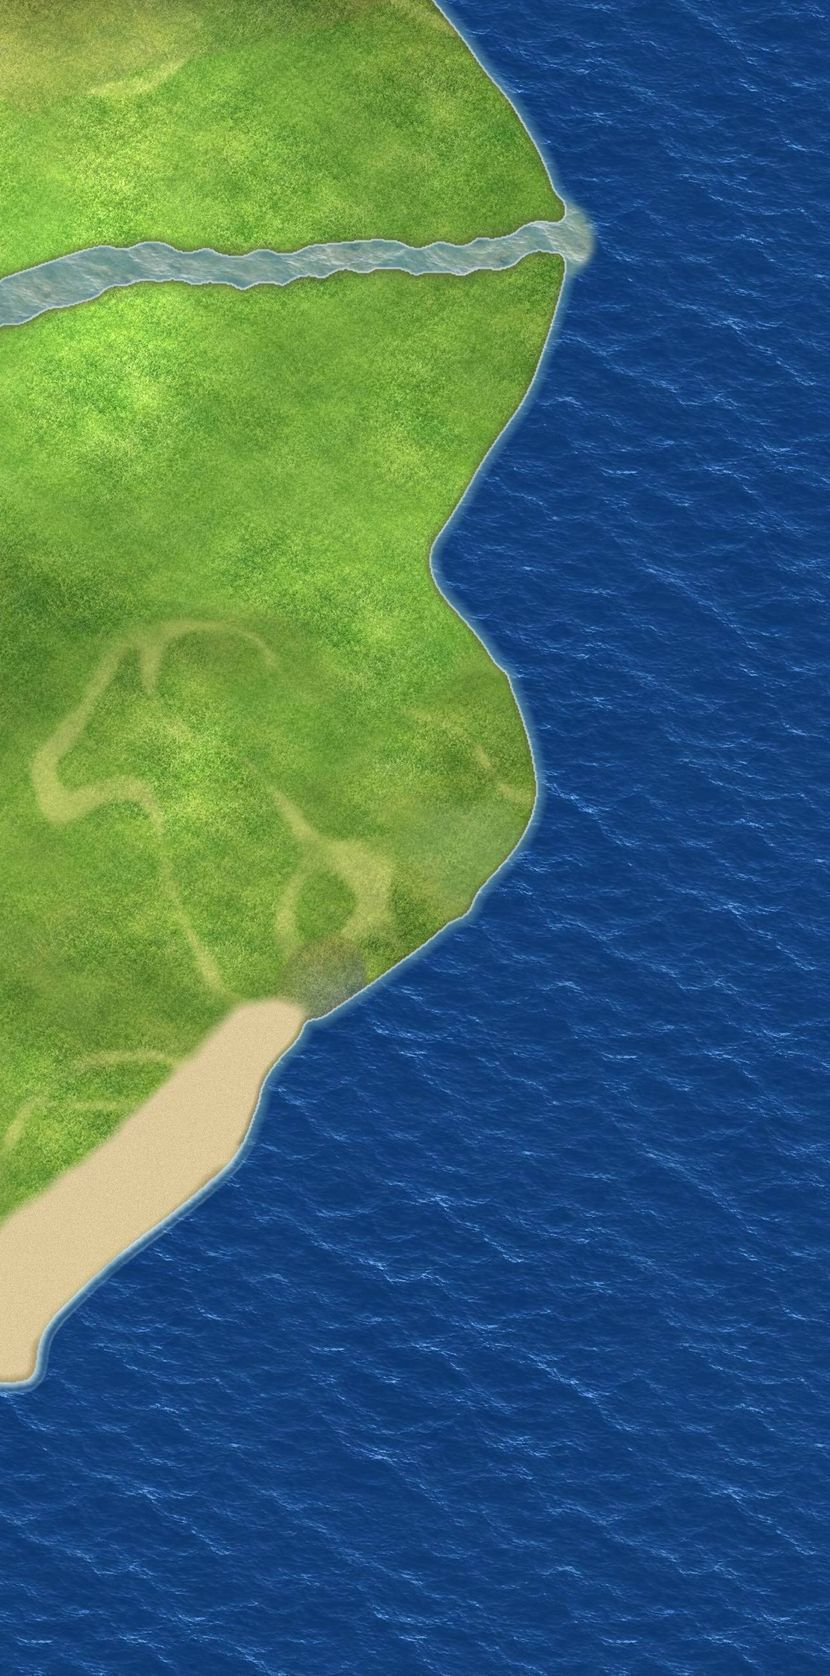
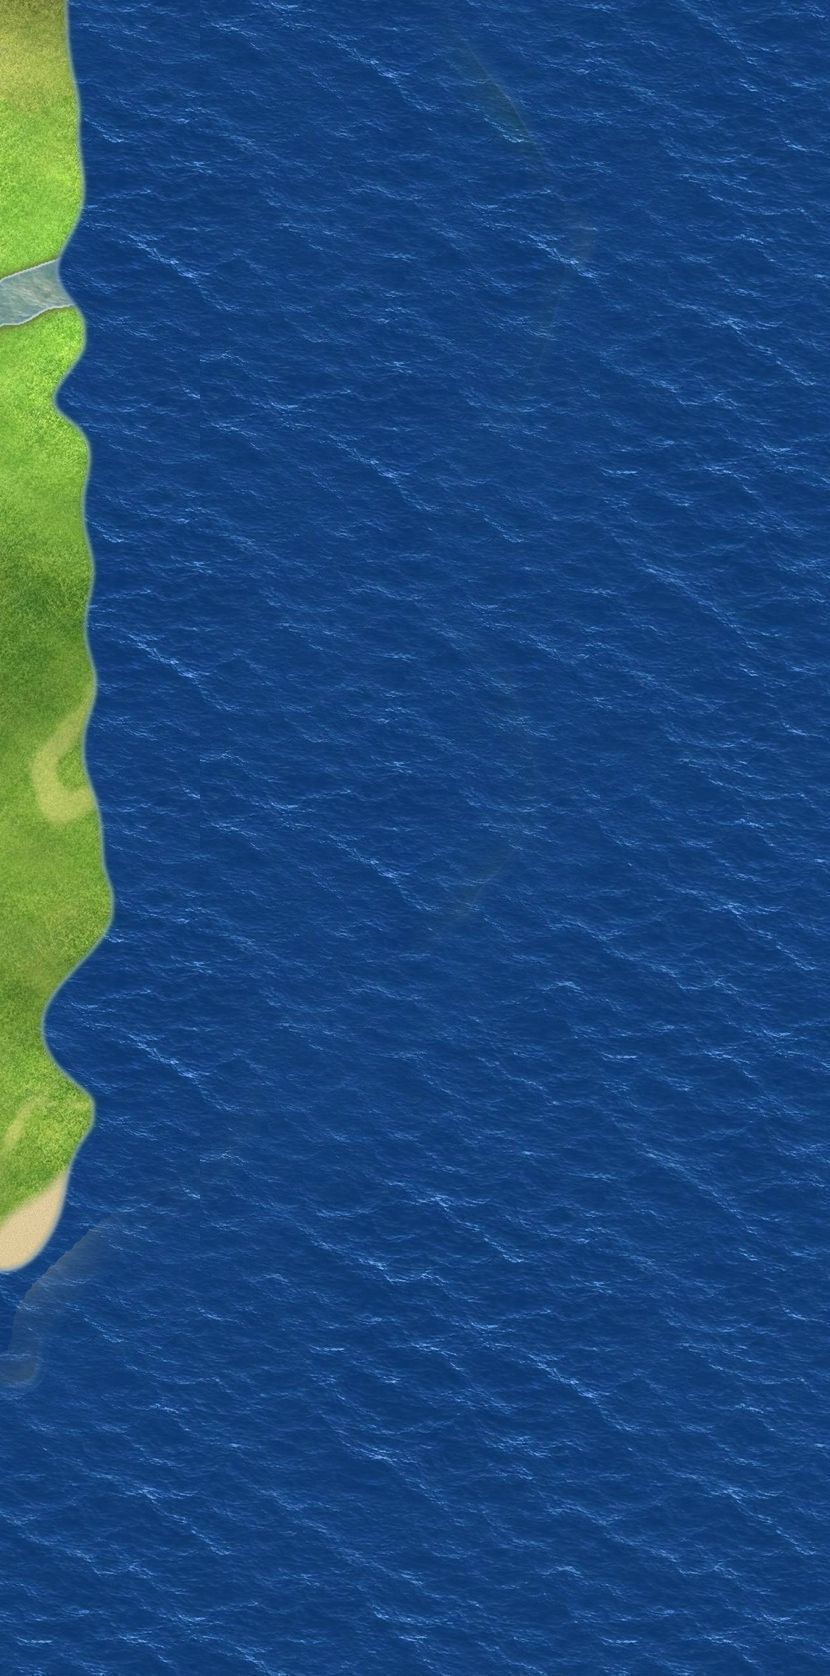
地图：东边涂抹区域变成海（被海围住的小块陆地一并变海，岸线自然起伏，新旧海水渐变无接缝）；新增 tools/make_sea.py
Claude-Session: https://claude.ai/code/session_011WrGna6yNwTfpmyp4CxMHs

diff --git a/tools/make_sea.py b/tools/make_sea.py
@@ -1,0 +1,54 @@
+"""把开发者面板涂抹的区域变成海：海水纹理（取地图里的深海）、碰撞改为阻挡、移走物件。
+用法：python3 tools/make_sea.py art_src/map/sea_xxx.json [宽度=40]"""
+import json,sys,os,numpy as np,cv2
+from PIL import Image
+Image.MAX_IMAGE_PIXELS=None
+R=os.path.dirname(os.path.dirname(os.path.abspath(__file__)));M=R+'/assets/map/'
+L=json.load(open(sys.argv[1]));WID=float(sys.argv[2]) if len(sys.argv)>2 else 40
+J=json.load(open(R+'/data/world.json'));HD=J['HD'];T=J['tiles']['T'];W,H=J['WW'],J['WH']
+full=np.zeros((H*HD,W*HD,3),np.uint8)
+for t in J['tiles']['list']:
+    tx,ty=int(t[1]),int(t[2]);im=np.array(Image.open(M+t+'.jpg').convert('RGB'));full[ty*T*HD:ty*T*HD+im.shape[0],tx*T*HD:tx*T*HD+im.shape[1]]=im
+mask=np.zeros(full.shape[:2],np.uint8)
+for s in L:
+    pts=np.array([[x*HD,y*HD] for x,y in s['点']],np.int32)
+    if len(pts)==1:cv2.circle(mask,tuple(pts[0]),int(WID*HD/2),255,-1)
+    else:
+        cv2.polylines(mask,[pts],False,255,int(WID*HD))
+        if np.hypot(*(pts[0]-pts[-1]))<40*HD:cv2.fillPoly(mask,[pts],255)
+mask=cv2.morphologyEx(mask,cv2.MORPH_CLOSE,np.ones((25*HD,25*HD),np.uint8))   # 涂抹之间的小缝补上
+f=full.astype(int)
+seaNow=(f[...,2]>f[...,1]+30)&(f[...,2]>110)
+# 被海围住、不连着大陆的小块陆地也一起变成海
+land=((~seaNow)&(mask==0)).astype(np.uint8);n,lab,st,_=cv2.connectedComponentsWithStats(land,connectivity=4)
+big=1+int(np.argmax(st[1:,4]));mask[(lab>0)&(lab!=big)]=255
+# 岸线加一点自然起伏，不要笔直
+rng=np.random.default_rng(5);nz=cv2.GaussianBlur(cv2.resize(rng.random((H//30+1,W//30+1)).astype(np.float32),(W*HD,H*HD),interpolation=cv2.INTER_CUBIC),(0,0),8*HD)
+nz=(nz-nz.mean())/(nz.std()+1e-6)
+mask=((cv2.GaussianBlur((mask>0).astype(np.float32),(0,0),14*HD)+nz*.18)>.5).astype(np.uint8)*255
+# 旧海岸线残留的细线（夹在新海和旧海之间）一起盖掉
+near=cv2.dilate(mask,np.ones((40*HD,40*HD),np.uint8))>0
+both=cv2.morphologyEx(((mask>0)|seaNow).astype(np.uint8),cv2.MORPH_CLOSE,np.ones((14*HD,14*HD),np.uint8))>0
+mask[both&near]=255
+S=int(200*HD);best=None
+for py in range(0,H*HD-S,40*HD):   # 找一块最纯的深海
+    for px in range(0,W*HD-S,40*HD):
+        q=f[py:py+S:8,px:px+S:8];sea=((q[...,2]>q[...,1]+30)&(q[...,2]>120)).mean()
+        if best is None or sea>best[0]:best=(sea,px,py)
+_,px,py=best;cell=full[py:py+S,px:px+S].astype(np.float32)
+b_=int(S*.3);sh=np.roll(np.roll(cell,S//2,0),S//2,1);d_=np.minimum(np.arange(S),S-1-np.arange(S));w_=np.clip(np.minimum.outer(d_,d_)/b_,0,1)[...,None];cell=sh*(1-w_)+cell*w_
+tile=np.tile(cell,(full.shape[0]//S+1,full.shape[1]//S+1,1))[:full.shape[0],:full.shape[1]]
+m=mask>0;sw=cv2.dilate(seaNow.astype(np.uint8),np.ones((30*HD,30*HD),np.uint8))>0
+a=np.where(sw,cv2.GaussianBlur(m.astype(np.float32),(0,0),18*HD),cv2.GaussianBlur(m.astype(np.float32),(0,0),3))[...,None]   # 新旧海水之间大范围渐变，看不出接缝
+# 岸边一圈浅色水边
+edge=cv2.GaussianBlur(m.astype(np.float32),(0,0),6);rim=(np.clip(1-np.abs(edge-.5)*4,0,1)*(~sw))[...,None]*.35
+out=full*(1-a)+tile*a;out=out*(1-rim)+np.array([200,225,235],np.float32)*rim*(a>.05)+out*rim*(a<=.05)
+out=np.clip(out,0,255).astype(np.uint8)
+for t in J['tiles']['list']:
+    tx,ty=int(t[1]),int(t[2]);Image.fromarray(out[ty*T*HD:(ty+1)*T*HD,tx*T*HD:(tx+1)*T*HD]).save(M+t+'.jpg',quality=80,optimize=True)
+c=np.array(Image.open(M+'coll.png').convert('RGB'));ms=cv2.resize(m.astype(np.uint8),(W,H),interpolation=cv2.INTER_AREA)>0
+c[...,0][ms]=1;Image.fromarray(c).save(M+'coll.png')
+n0=len(J['objs']);J['objs']=[o for o in J['objs'] if not (0<=int(o[2])<H and 0<=int(o[1])<W and ms[int(o[2]),int(o[1])])]
+J['ver']=J.get('ver',0)+1;json.dump(J,open(R+'/data/world.json','w'),ensure_ascii=False,separators=(',',':'))
+Image.fromarray(out[0:760*HD,1350*HD:W*HD]).resize(((W-1350),760)).save('/tmp/sea_preview.png')
+print('sea cells',int(ms.sum()),'objs',n0,'->',len(J['objs']))
